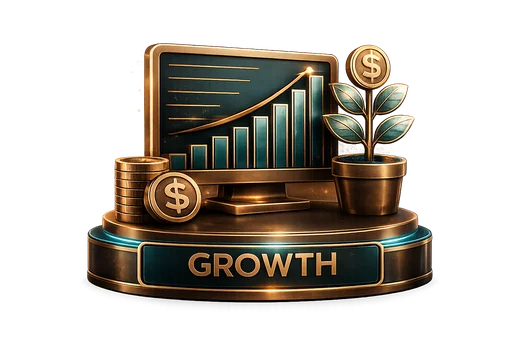
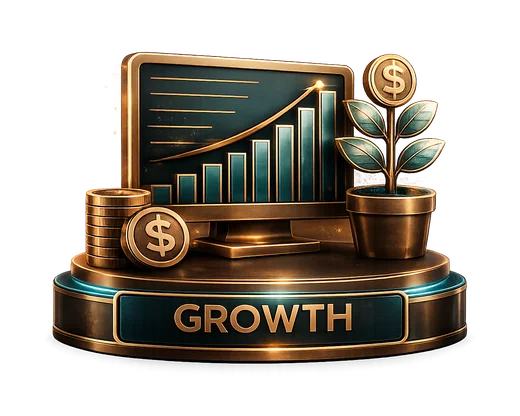
Add files via upload

Changed region(s): [[0.0923, 0.1156, 0.9231, 0.896], [0.4615, 0.2312, 0.4923, 0.2601]]

diff --git a/index.html b/index.html
@@ -180,7 +180,7 @@
     transition:transform .15s,border-color .15s,box-shadow .15s}
   .pillar:hover{transform:translateY(-3px);border-color:var(--copper-d);
     box-shadow:0 14px 40px rgba(0,0,0,.4)}
-  .pillar-img{width:100%;max-width:230px;margin:0 auto 18px;display:block;border-radius:12px;
+  .pillar-img{width:100%;max-width:256px;margin:0 auto 18px;display:block;border-radius:12px;
     cursor:zoom-in;transition:transform .18s,box-shadow .18s;
     box-shadow:0 10px 30px rgba(0,0,0,.45), 0 0 24px rgba(208,142,86,.12)}
   .pillar-img:hover{transform:scale(1.04);box-shadow:0 14px 38px rgba(0,0,0,.55), 0 0 34px rgba(208,142,86,.25)}
